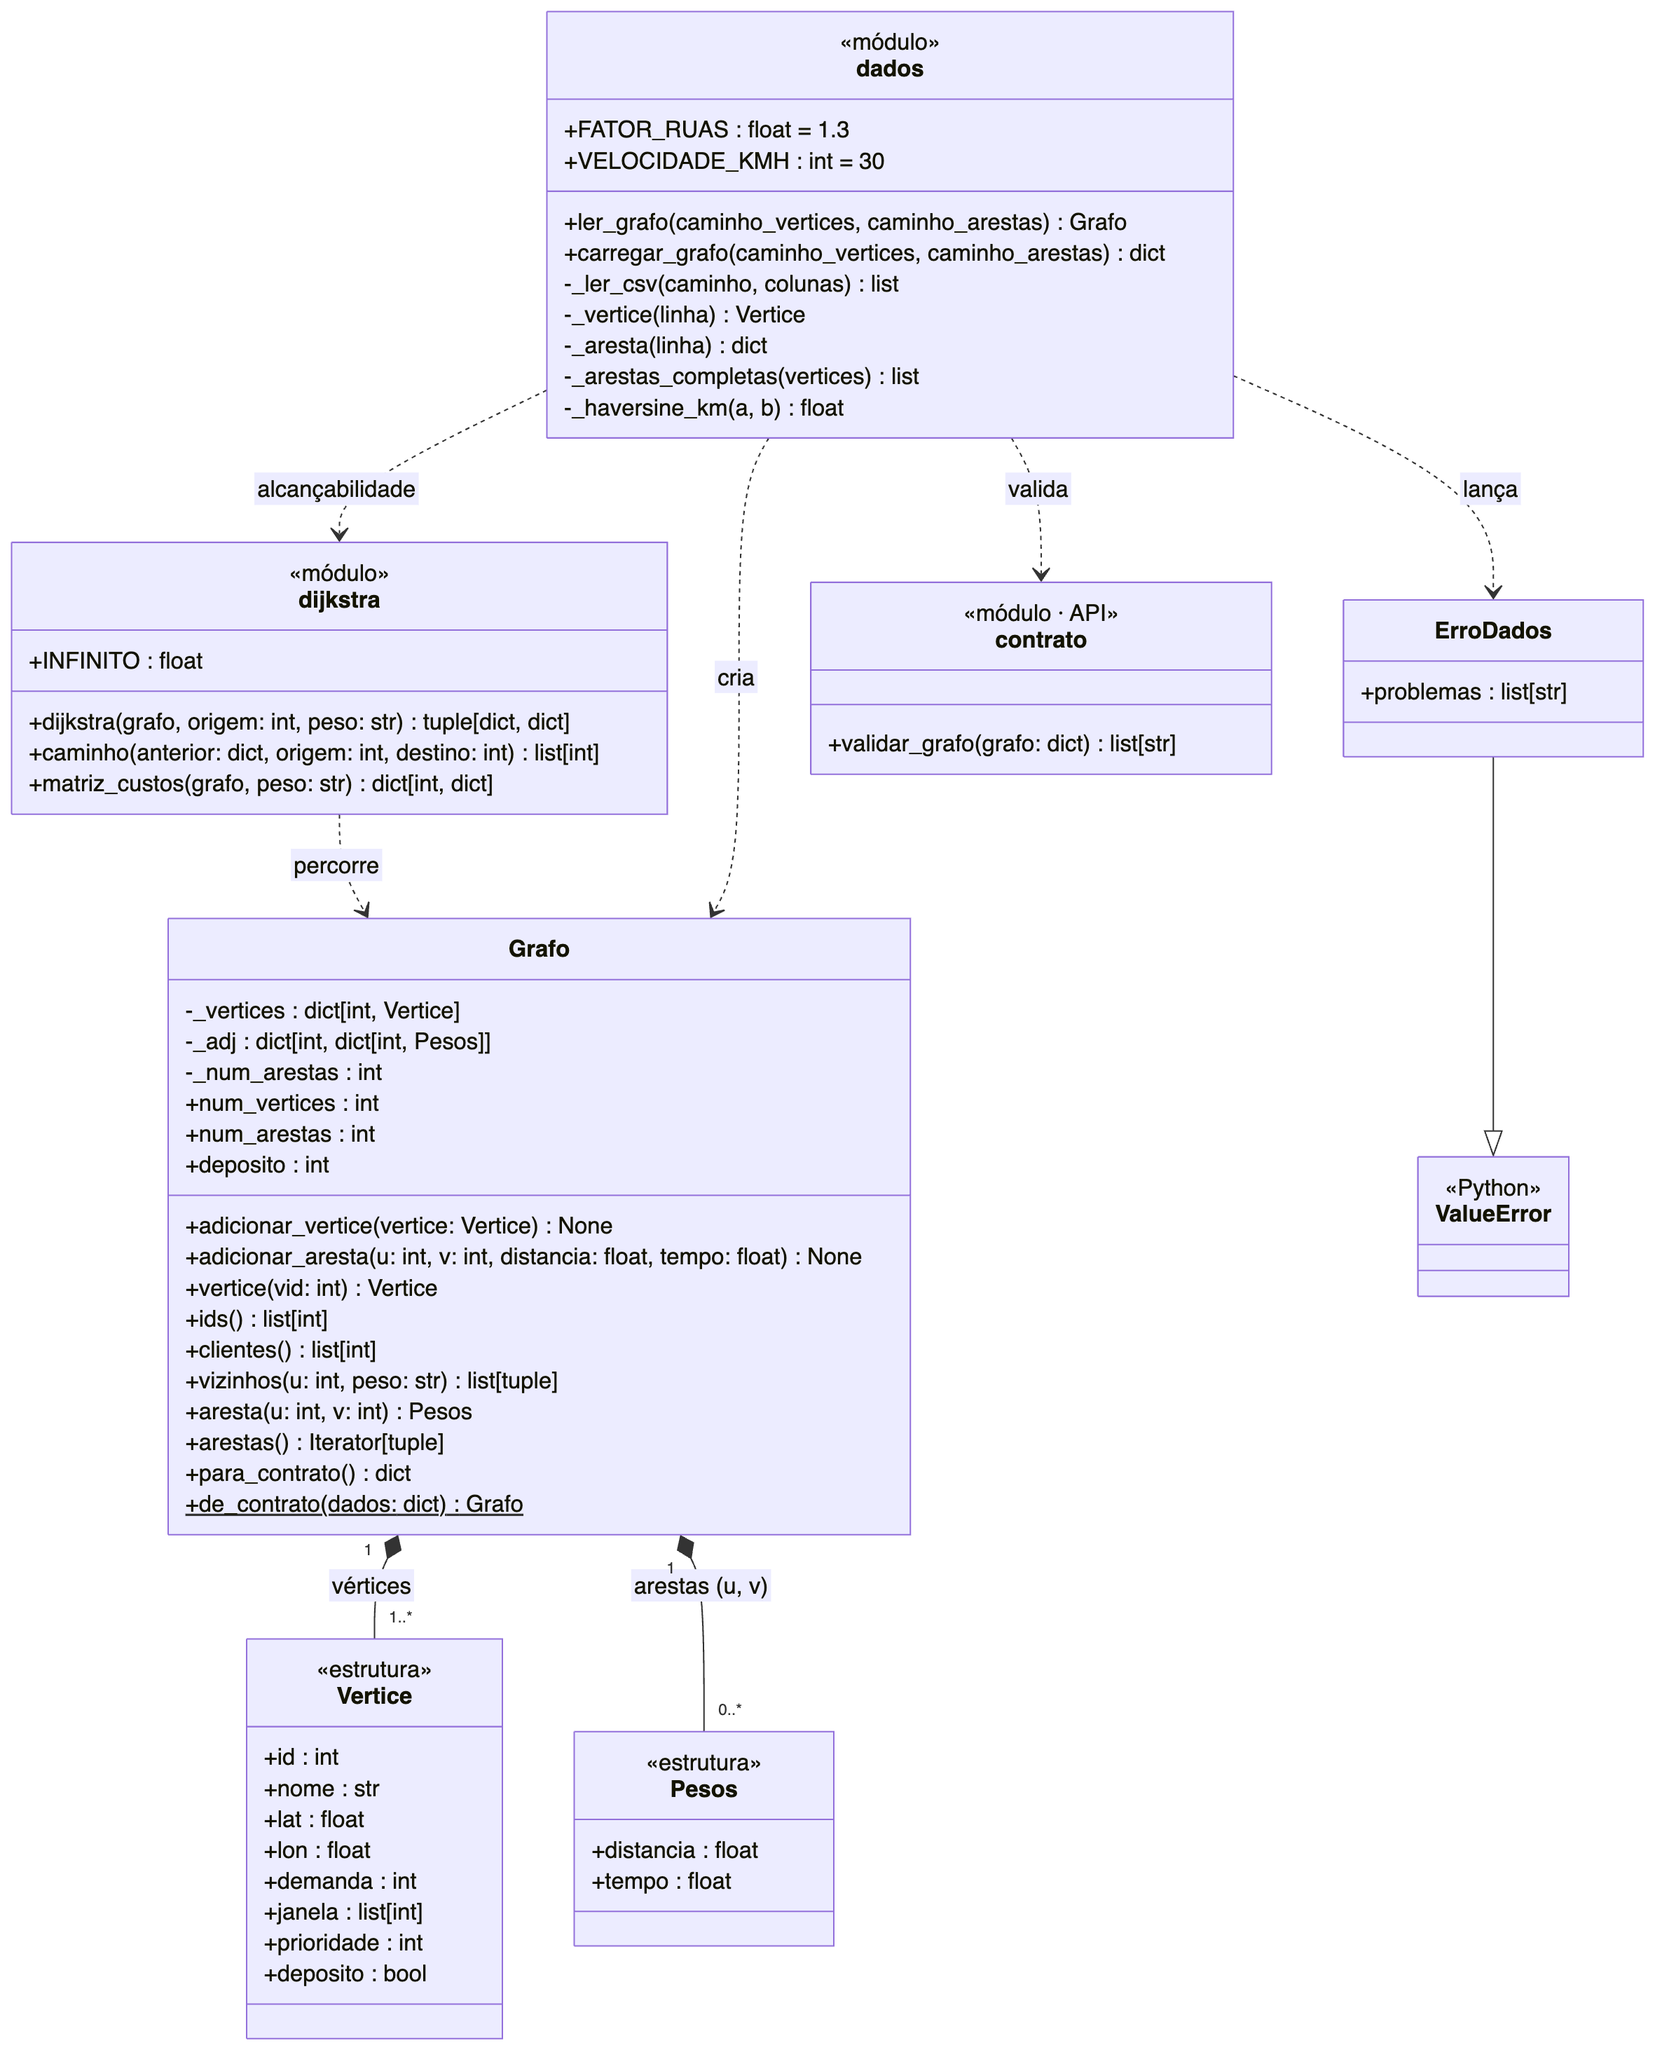
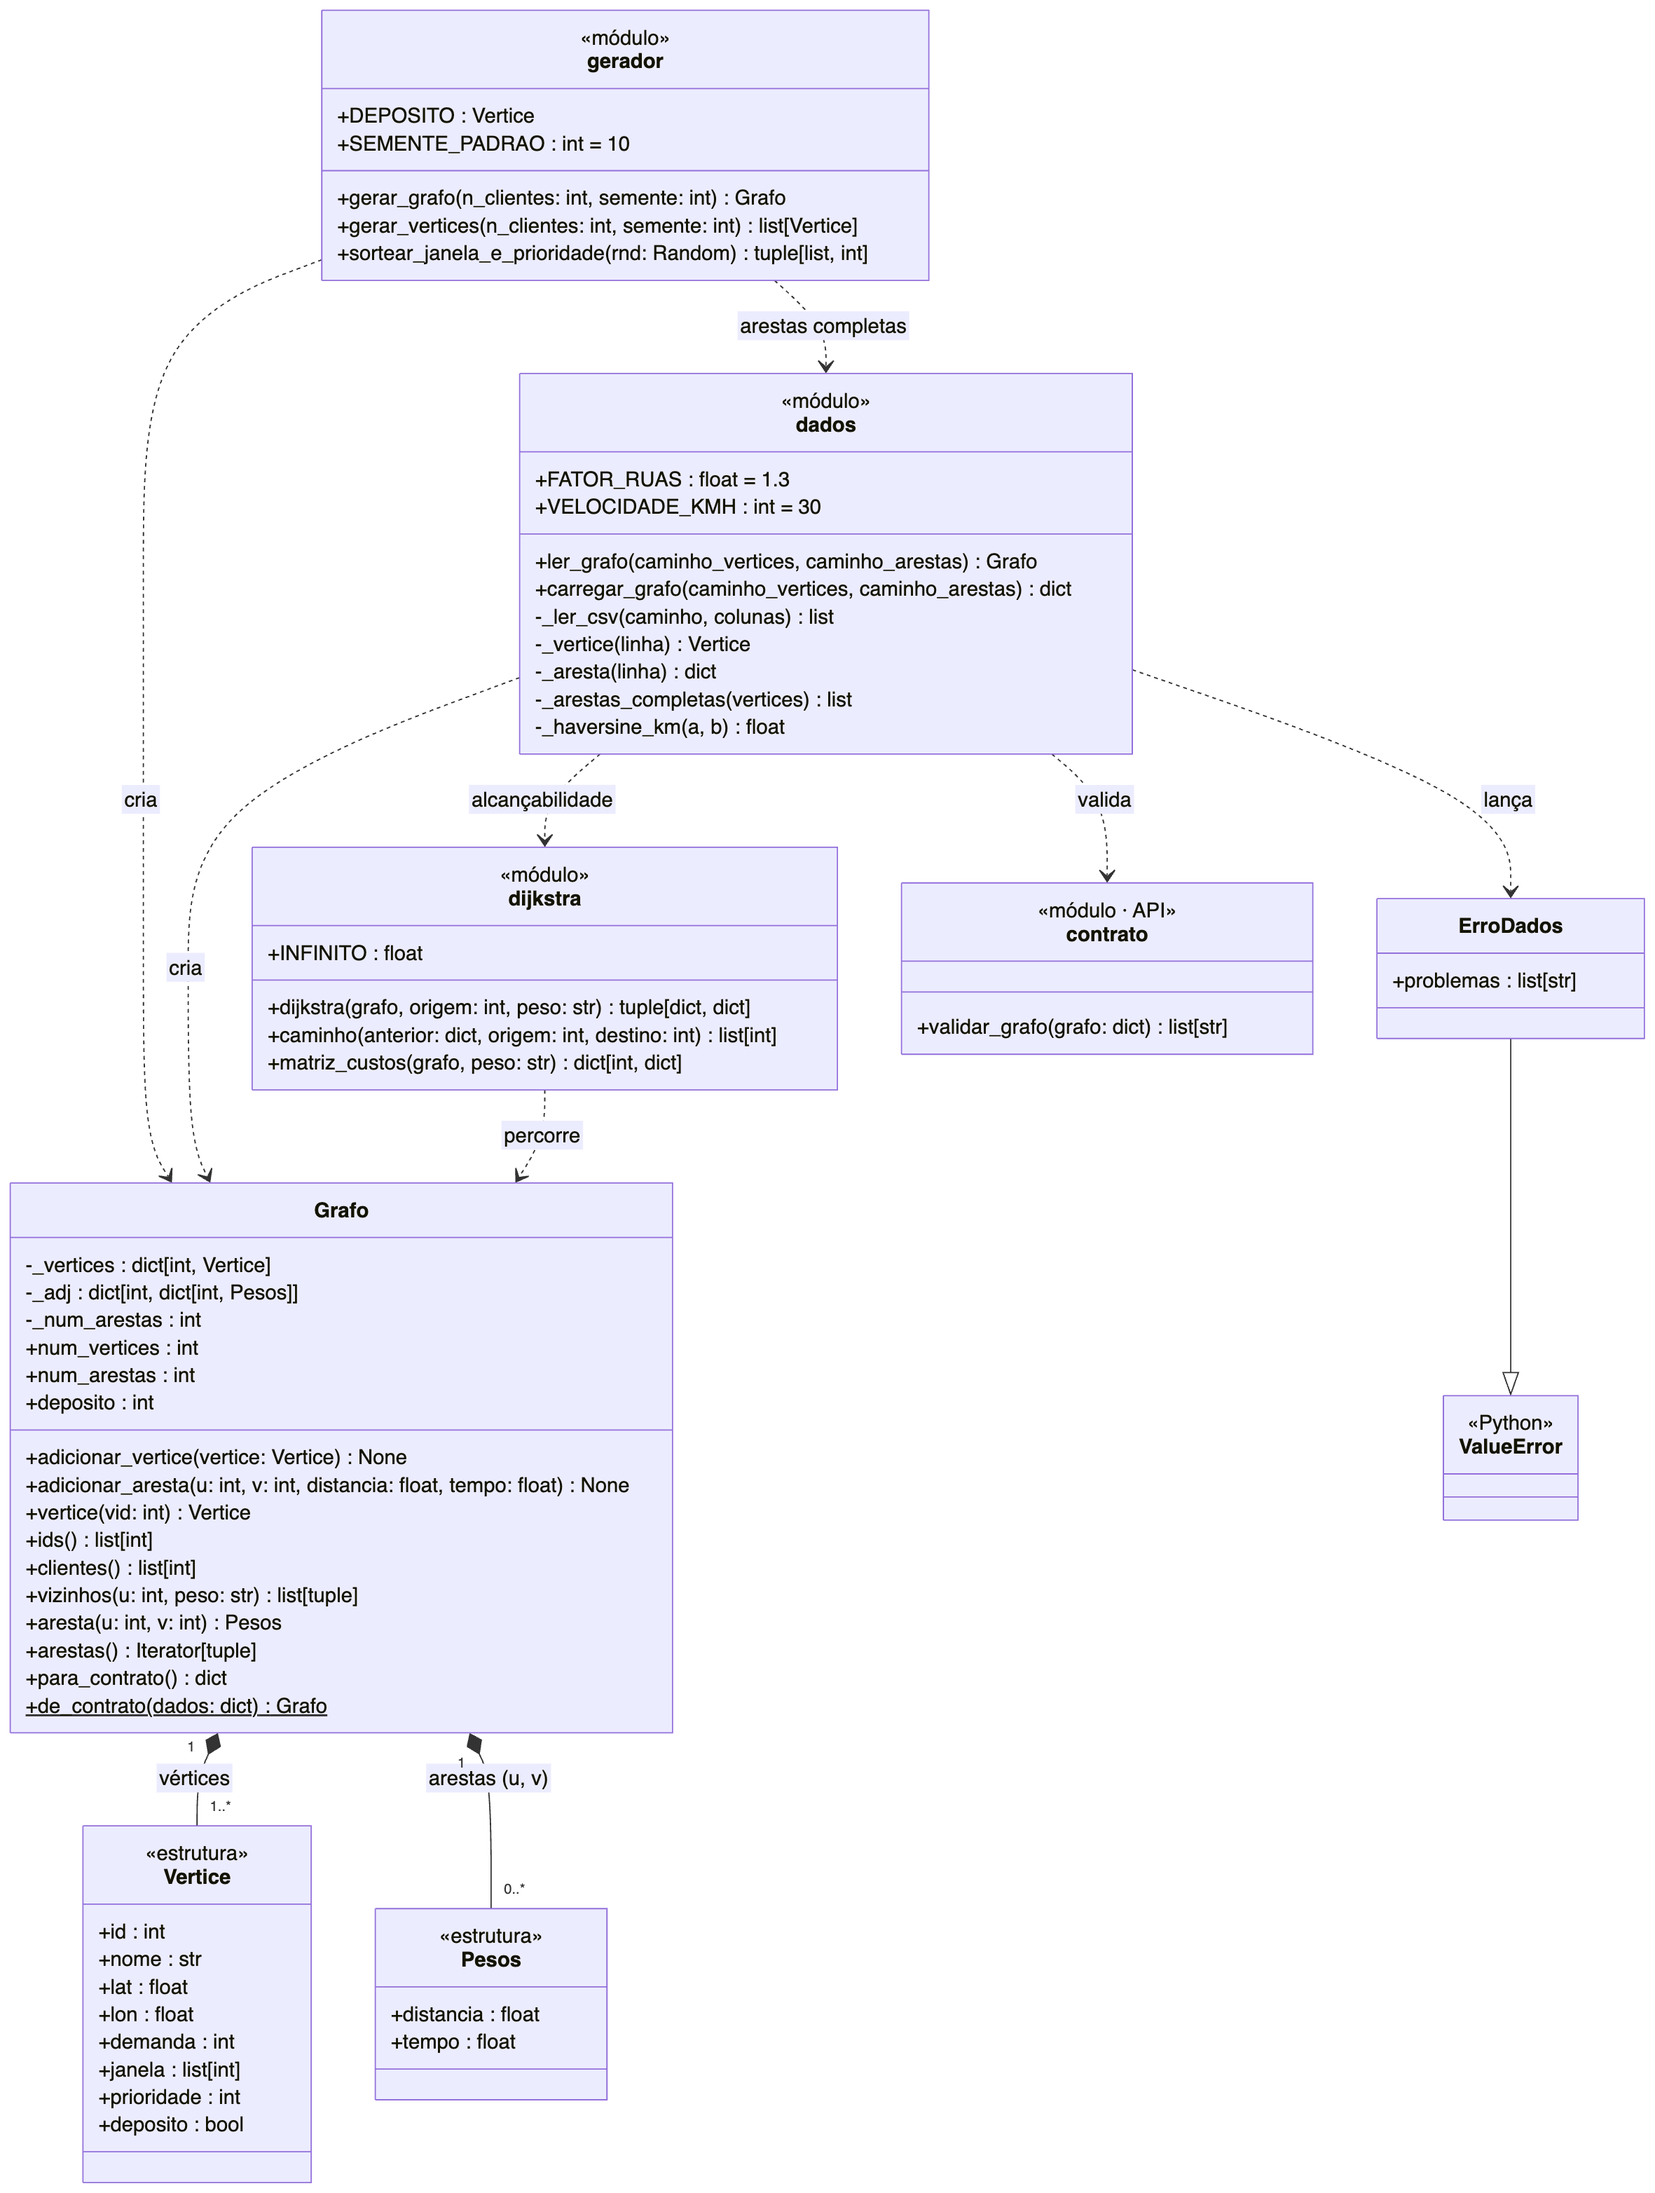
docs: atualização do diagrama de classes

diff --git a/relatorio/main.tex b/relatorio/main.tex
@@ -120,7 +120,9 @@ compartilhada pelos dois sentidos da aresta. \texttt{Vertice} e \texttt{Pesos} n
 no código, e sim dicionários com os campos do contrato da API; aparecem como
 ``estrutura'' para mostrar o que cada vértice e cada aresta carregam.
 Os módulos \texttt{dados} (leitura e validação dos CSV) e \texttt{dijkstra} (caminhos mínimos e
-matriz de custos) são conjuntos de funções que criam e percorrem o \texttt{Grafo}.
+matriz de custos) são conjuntos de funções que criam e percorrem o \texttt{Grafo}. O módulo
+\texttt{gerador} cria instâncias sintéticas, reprodutíveis pela semente, usadas apenas nos
+testes e na avaliação de desempenho.
 % TODO (Dupla 1): demais diagramas da modelagem (casos de uso, atividades), se forem entrar
 
 \begin{figure}[ht]

diff --git a/docs/diagramas-grafo.md b/docs/diagramas-grafo.md
@@ -16,7 +16,8 @@ Arquivo da figura: `figuras/uml-classes.png`
 O núcleo é a classe `Grafo` (`src/grafo/grafo.py`), que guarda o grafo não direcionado e ponderado em
 lista de adjacência. `Vertice` e `Pesos` não são classes no código: são dicionários com os campos do
 contrato da API (`src/api/contrato.py`). Aparecem aqui como `«estrutura»` para mostrar o que cada vértice
-e cada aresta carregam. `dijkstra` e `dados` são módulos de funções, representados como `«módulo»`.
+e cada aresta carregam. `dijkstra`, `dados` e `gerador` são módulos de funções, representados como `«módulo»`. O `gerador` cria
+instâncias sintéticas (reprodutíveis pela semente) só para os testes e o benchmark; a base do sistema vem de `dados/`.
 
 ```mermaid
 classDiagram
@@ -80,6 +81,15 @@ classDiagram
         -_haversine_km(a, b) float
     }
 
+    class gerador {
+        <<módulo>>
+        +DEPOSITO : Vertice
+        +SEMENTE_PADRAO : int = 10
+        +gerar_grafo(n_clientes: int, semente: int) Grafo
+        +gerar_vertices(n_clientes: int, semente: int) list[Vertice]
+        +sortear_janela_e_prioridade(rnd: Random) tuple[list, int]
+    }
+
     class ErroDados {
         +problemas : list[str]
     }
@@ -101,6 +111,8 @@ classDiagram
     dados ..> dijkstra : alcançabilidade
     dados ..> contrato : valida
     dados ..> ErroDados : lança
+    gerador ..> Grafo : cria
+    gerador ..> dados : arestas completas
 ```
 
 **Decisões que o diagrama mostra**
